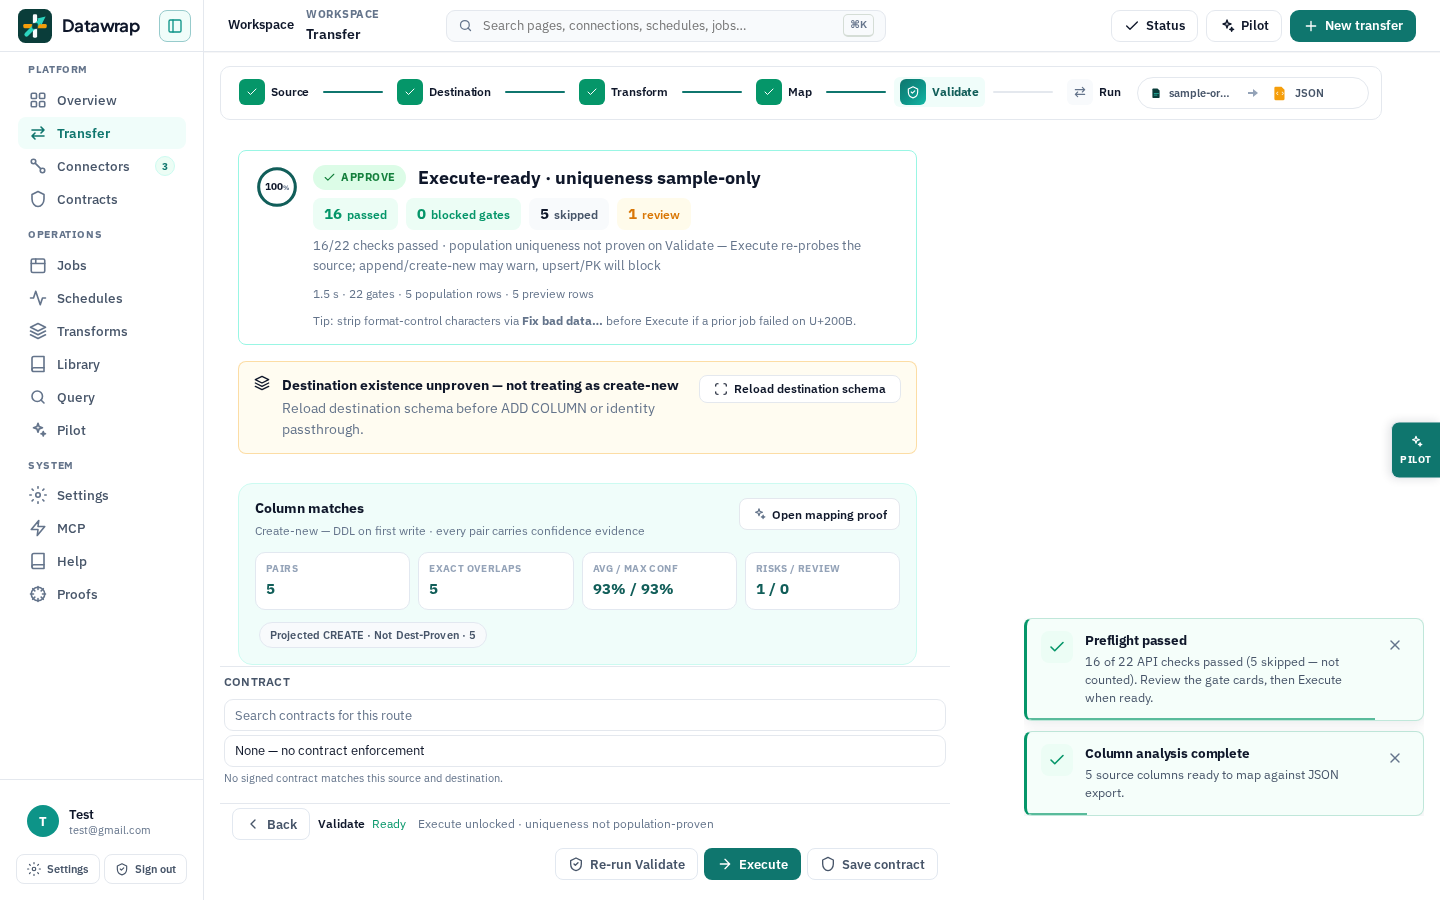
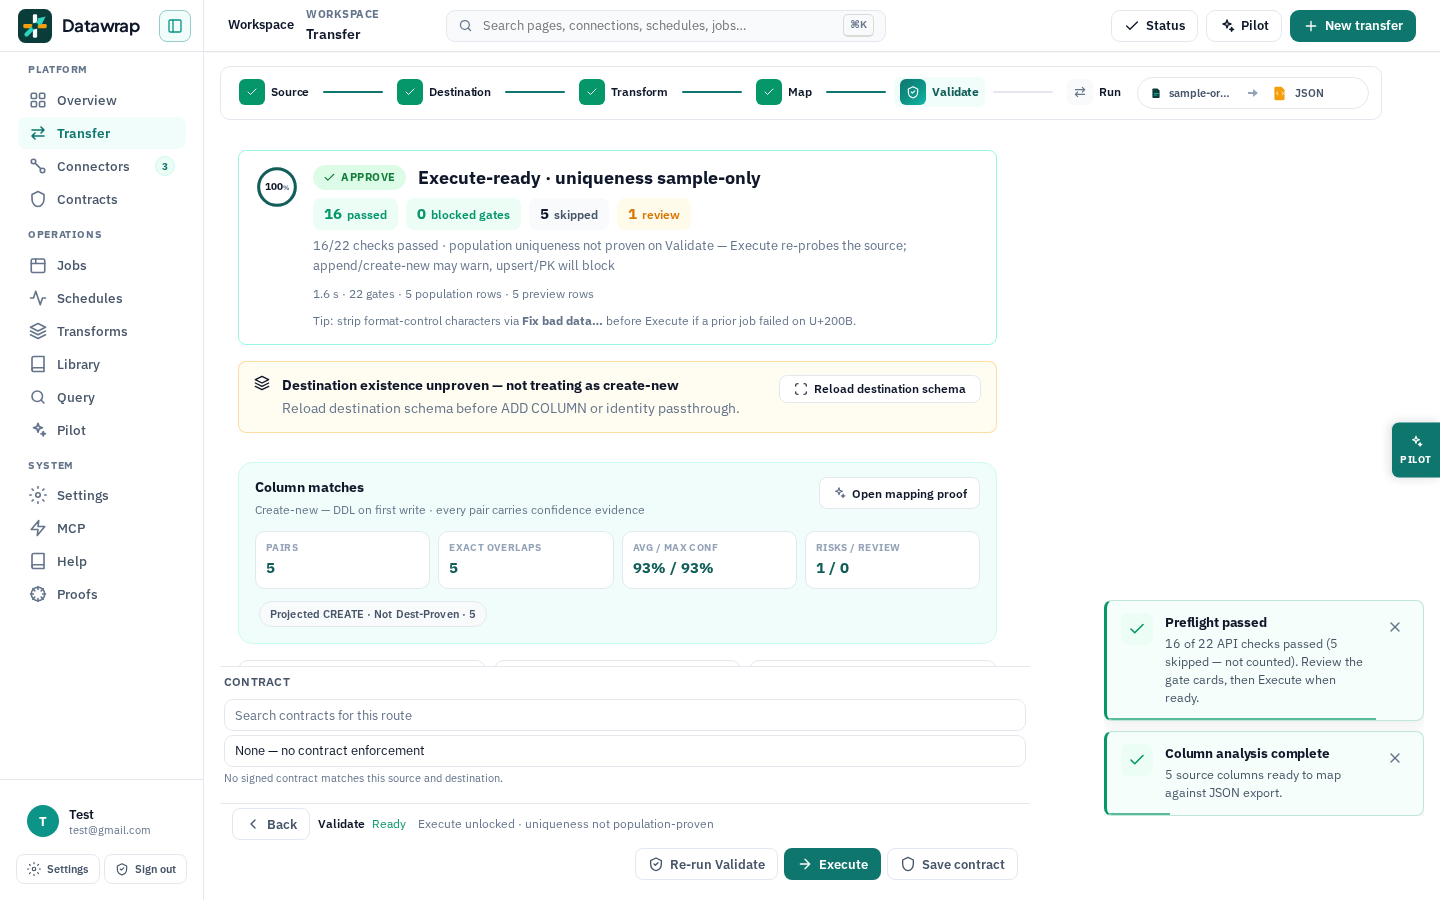
D-BP-18/19: permanent toast lane + scroller padding on Validate
- D-BP-19: the conditional :has(.dt-toast) margin gutter made the whole step
  column reflow on every toast show/dismiss. Replaced with a permanent
  352px toast lane at >=1024px (studio toasts run 320px via body:has() so the
  body-level host inherits) — zero overlap AND zero layout jump.
- D-BP-18: scroll-padding-bottom was dead code on the non-scrolling
  viewport; moved the clearance onto .df2-validate-scroll (the real
  overflow-y scroller) plus padding-bottom so the last card clears the
  contract rail.
- Evidence: dbp13-validate-{1440,1280}.png (toasts present) and
  dbp19-validate-dismissed-{1440,1280}.png (after auto-dismiss — layout
  identical, proving no reflow).
- toast-clearance spec 2/2 at 1440+1280.

diff --git a/apps/web/src/styles/transfer-studio.css b/apps/web/src/styles/transfer-studio.css
@@ -10476,19 +10476,34 @@ body:has(.df2-page-transfer-studio .df2-transfer-step-panel) .dt-toast-host {
   max-height: min(240px, 30vh);
 }
 
-/* D-BP-11 Validate leg: while any toast is on screen, the step viewport
-   reserves the toast column outright — contract search/select, metric cards,
-   footers and content reflow left of the gutter instead of painting under the
-   toasts. Engages only while .dt-toast exists, so there is no dead space.
-   margin-right, not padding-right: the Validate host pins padding: 0
-   !important and a padded rule can never win that fight. */
-body:has(.df2-page-transfer-studio .df2-transfer-step-panel):has(.dt-toast)
-  .df2-transfer-step-viewport {
-  margin-right: calc(var(--df-toast-width) + 32px);
+/* D-BP-11/19: on wide screens the studio step viewport reserves the toast
+   column permanently — a :has(.dt-toast) gutter made the whole step reflow
+   every time a toast appeared or dismissed. A fixed lane means toasts are
+   never over content AND the column never jumps. margin-right, not
+   padding-right: the Validate host pins padding: 0 !important. Toasts run
+   a narrower width on studio so the lane stays proportionate. */
+@media (min-width: 1024px) {
+  /* The toast host is a body-level fixed element — the narrower studio toast
+     width must be declared where it inherits, not on the studio subtree. */
+  body:has(.df2-page-transfer-studio) {
+    --df-toast-width: 320px;
+  }
+  .df2-page-transfer-studio .df2-transfer-step-viewport {
+    margin-right: calc(var(--df-toast-width) + 32px);
+  }
 }
 
 .df2-page-transfer-studio .df2-transfer-step-viewport {
   scroll-padding-bottom: 110px;
+}
+
+/* D-BP-18: the actual scroller is .df2-validate-scroll (overflow-y:auto),
+   not the viewport — scroll-padding on the viewport was dead code and the
+   Column matches card could rest cropped against the contract rail. The
+   padding keeps the last card fully above the rail boundary. */
+.df2-page-transfer-studio .df2-validate-scroll {
+  scroll-padding-bottom: 160px;
+  padding-bottom: 16px;
 }
 
 /* Transform's sticky footer is taller than the shared 60px clearance, and a
